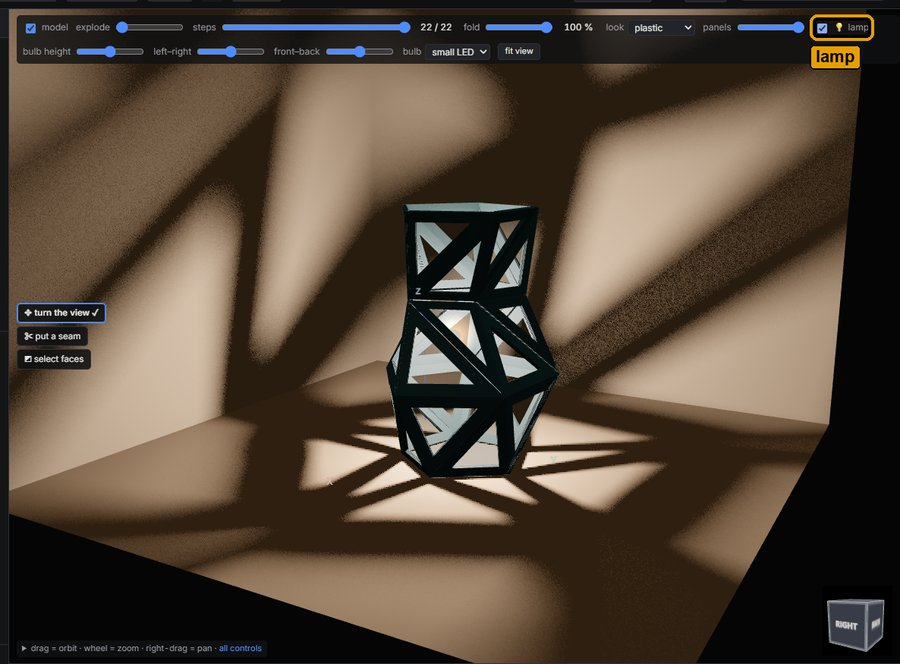
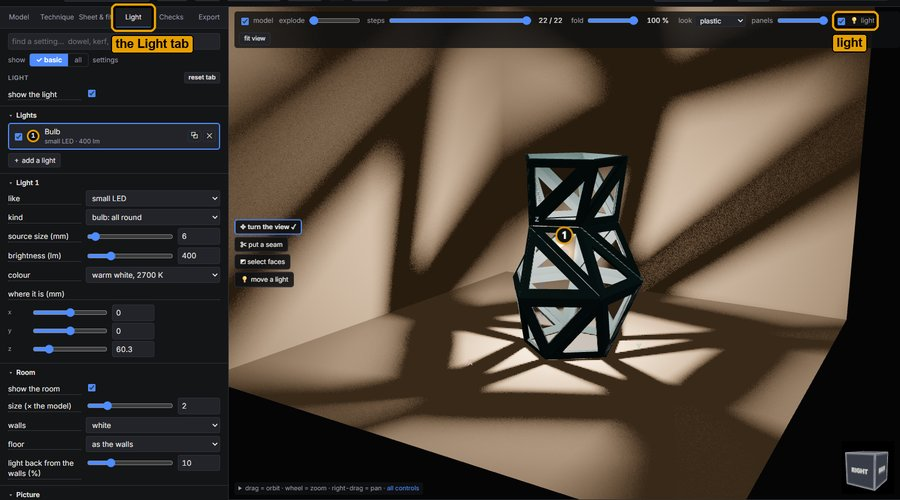
Release notes after light-tab and printed-spacers: the lamp picture shows the Light tab, standoff in news.py, Added at 12
- n040_lamp: the lit fold_lamp beside the new Light tab, the tab and the light tick ringed (the bulb controls
  left the bar for the tab). It leaves the Technique tab open, as view() did.
- n040_standoff (written by the printed-spacers branch, pasted by the one-writer rule); its picture retaken:
  the same scene, with the release's new hide dowels row and Light tab.
- Added was 13 with the standoffs: "Close up only the small faces" (no picture) is folded into the mask entry,
  as lion_head uses both. "Light your model." cut from 44 words to 35.
- hide-dowels and lamp-example take the same pictures as the committed ones (mean difference 0.00 and 0.02).

notes_check 0.4.0 OK; ruff clean.

diff --git a/scripts/media/news.py b/scripts/media/news.py
@@ -144,13 +144,17 @@ def save(name, img):
 # ---- 0.4.0 -----------------------------------------------------------------------------------------------------
 
 
-def n040_lamp(app):
+def n040_lamp(app):                           # the light on, beside the Light tab that holds the lights and the room
     app.example("fold_lamp")
     app.view(30, 12, 1.7)
     app.p.check("#lamp")
+    app.tab("light")
     app.p.wait_for_timeout(1500)
-    app.shot("0.4.0-lamp", VIEW, [("label:has(#lamp)", "light")])
+    _, _, x1, y1 = app.box(VIEW)
+    app.shot("0.4.0-lamp", (0, app.box("nav")[1], x1, y1),
+             [("nav button[data-t=light]", "the Light tab"), ("label:has(#lamp)", "light")])
     app.p.uncheck("#lamp")
+    app.tab("technique")                     # where view() left it, for the pictures after this one
 
 
 # the back of the lion: the largest joined area of faces that face backward (normal y over 0.3), behind the middle.
@@ -449,6 +453,14 @@ def n040_hide_dowels(app):
     app.tick("hide_dowels", False)
     app.set("thickness", sheet)
     app.p.select_option("#viewmode", "both")
+
+
+def n040_standoff(app):                     # written by the printed-spacers branch, pasted here (one writer)
+    app.example("shade", "stacked")
+    app.view(40, 10, 0.8)
+    app.p.evaluate("() => document.querySelector('section[data-tab=technique] .f[data-p=connect]').scrollIntoView({block: 'center'})")
+    app.p.wait_for_timeout(300)
+    app.shot("0.4.0-standoff", (0, 40, 1574, 860), [("section[data-tab=technique] .f[data-p=connect]", "printed standoffs")])
 
 
 # ---- 0.3.3 -----------------------------------------------------------------------------------------------------

diff --git a/CHANGELOG.md b/CHANGELOG.md
@@ -40,13 +40,13 @@ inside to see it as a lamp.
 
   ![The head's rings cut into pieces of 150 mm at most, nested on one sheet](web/static/news/0.4.0-max-length.jpg)
 
-- **Light your model.** Tick *light* over the 3D view to see its light and soft shadows in a room. The new *Light*
-  tab holds up to four bulbs and spots, and the room. Drag a light in the view. All of it is saved with the project.
+- **Light your model.** Tick *light* over the 3D view to see its light and soft shadows in a room. The *Light* tab
+  holds up to four bulbs and spots; drag them in the view. Saved with the project.
 
-  ![The lamp tick over the 3D view: the bulb's light and soft shadows in the room](web/static/news/0.4.0-lamp.jpg)
+  ![The Light tab beside the lit lamp: the bulb's light and soft shadows on the room's walls](web/static/news/0.4.0-lamp.jpg)
 
 - **Make a mask from a model.** In Folded Panels, use the *select faces* tool: click, drag, *grow* or *connected*,
-  then *remove*. Only what is left is cut, even when you change the face size. Try it on the new *lion_head*.
+  then *remove*. *Smallest face* merges faces under a size and keeps the rest. Try both on the new *lion_head*.
 
   [![A lion head made into a mask: the face and the whole mane kept, the back removed ▶](web/static/news/0.4.0-mask.jpg)](https://marcelfarres.github.io/lamina/media/mask.mp4)
 
@@ -59,9 +59,6 @@ inside to see it as a lamp.
   plywood lantern of 72 pieces.
 
   ![The fold_box example half folded, and the fold_lantern example](web/static/news/0.4.0-examples.jpg)
-
-- **Close up only the small faces.** The folded setting *smallest face* merges the faces under the size you give
-  and keeps the rest of the model as it is.
 
 - **Choose which slices go in first.** *Into the plate first* picks the X or Y slices of a crossed plaque. The
   others slide onto them one by one. *First family height* makes them a low rail. Their teeth are full width.
